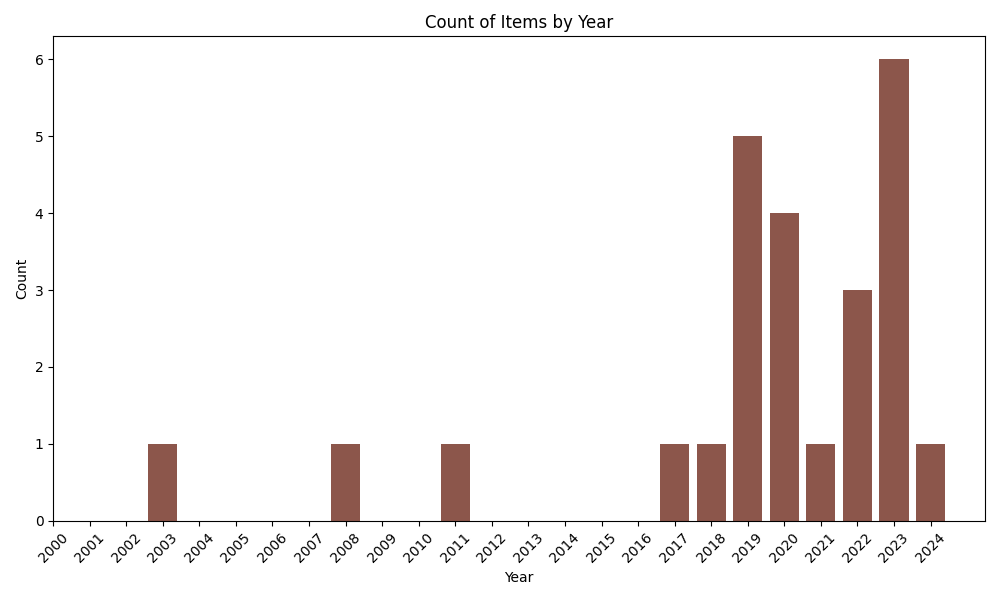
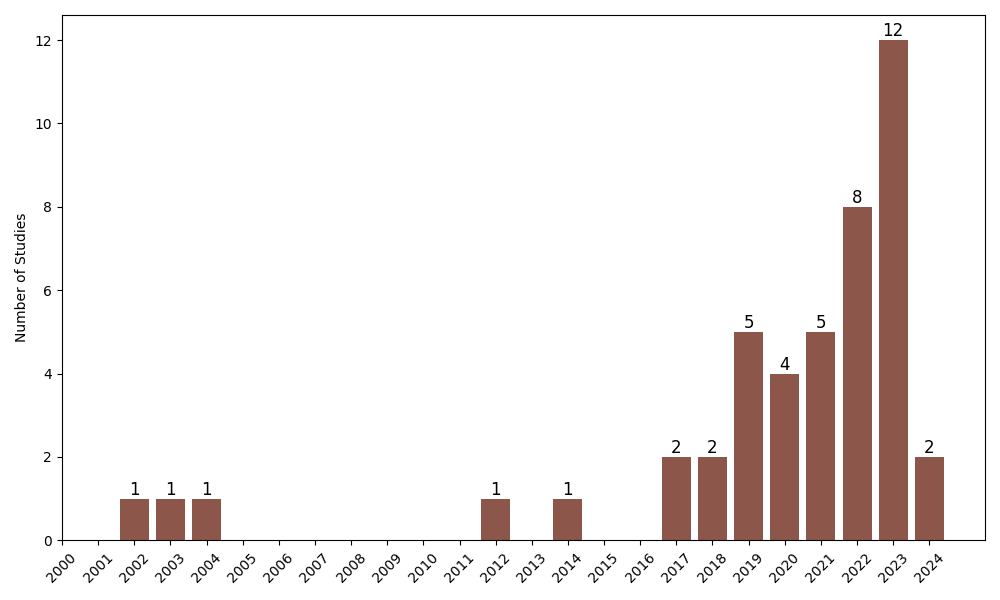
listing venues

diff --git a/figure/bar.py b/figure/bar.py
@@ -1,34 +1,57 @@
 import pandas as pd
 import matplotlib.pyplot as plt
+from matplotlib import colors as mcolors
+from matplotlib.ticker import MaxNLocator
 
-# Step 1: Read the Excel file
-file_path = '../primary study.xlsx'  # Update this to your file path
-df = pd.read_excel(file_path)
 
-# Step 2: Ensure the 'Year' column is treated as integer
-df['Year'] = pd.to_numeric(df['Year'], errors='coerce')  # Convert to numeric, coerce errors to NaN
+colors = dict(mcolors.BASE_COLORS, **mcolors.CSS4_COLORS)
 
-# Step 3: Drop rows with NaN values in 'Year' column
-df = df.dropna(subset=['Year'])
+def publication_year():
+    file_path = '../XR_Study.xlsx'
+    df = pd.read_excel(file_path, sheet_name="Data Extraction")
+    df['year'] = pd.to_numeric(df['year'], errors='coerce')  # Convert to numeric, coerce errors to NaN
 
-# Step 4: Count occurrences of each year
-year_counts = df['Year'].value_counts()
+    df = df.dropna(subset=['year'])
+    year_counts = df['year'].value_counts().sort_index()
+    sorted_year_counts = year_counts.sort_index()
 
-# Step 5: Sort by year
-sorted_year_counts = year_counts.sort_index()
+    plt.figure(figsize=(10, 6))
+    plt.bar(sorted_year_counts.index, sorted_year_counts.values, color='tab:brown')
 
-# Step 6: Create a bar chart
-plt.figure(figsize=(10, 6))
-plt.bar(sorted_year_counts.index, sorted_year_counts.values, color='tab:brown')
+    for year, count in sorted_year_counts.items():
+        plt.text(year, count, str(count), ha='center', va='bottom', fontsize=12)
 
-all_years = range(2000, 2025)
-plt.xticks(all_years)  # Set x-axis ticks
+    all_years = range(2000, 2025)
+    plt.xticks(all_years)
 
-plt.xlabel('Year')
-plt.ylabel('Count')
-plt.title('Count of Items by Year')
-plt.xticks(rotation=45)  # Rotate x-axis labels for better readability
-plt.tight_layout()  # Adjust layout to fit everything nicely
+    plt.ylabel('Number of Studies')
+    plt.xticks(rotation=45)
+    plt.tight_layout()
 
-# Step 7: Show the plot
-plt.show()
+    plt.show()
+
+def venue_type():
+    file_path = '../XR_Study.xlsx'
+    df = pd.read_excel(file_path, sheet_name="Data Extraction")
+    venue_types = ["Journal", "Conference", "Workshop", "Symposium"]
+    venue_counts = df["venue type"].value_counts()
+    filtered_counts = venue_counts[venue_types].reset_index()
+    filtered_counts.columns = ['Venue Type', 'Count']
+
+    plt.figure(figsize=(6, 4))
+    plt.bar(filtered_counts['Venue Type'], filtered_counts['Count'], width=0.5, color=colors["cadetblue"])
+
+    for i, count in enumerate(filtered_counts['Count']):
+        plt.text(i, count + 0.15, str(count), ha='center', fontsize=10)
+
+    plt.ylabel('Frequency')
+    plt.gca().yaxis.set_major_locator(MaxNLocator(integer=True))  # Ensure y-ticks are integers
+    plt.tight_layout()
+    plt.show()
+
+
+def venue_topic():
+    pass
+
+# publication_year()
+venue_type()

diff --git a/figure/listing.py b/figure/listing.py
@@ -1,0 +1,24 @@
+import pandas as pd
+
+def listing_venue():
+    pd.set_option('display.max_colwidth', None)
+    pd.set_option('display.max_rows', None)
+    pd.set_option('display.max_columns', None)
+    file_path = '../XR_Study.xlsx'  # Update this to your file path
+    df = pd.read_excel(file_path, sheet_name="Data Extraction")
+    grouped_venues = df.groupby(['venue', 'venue type', 'venue topic']).size().reset_index(name='Count')
+
+    # Sort the results by count in descending order
+    grouped_venues = grouped_venues.sort_values(by='Count', ascending=False)
+
+    no = 1
+    for index, row in grouped_venues.iterrows():
+        venue = row['venue']
+        venue_type = row['venue type']
+        venue_domain = row['venue topic']
+        count = row['Count']
+        # percentage = row['Count'] / 45
+        print(f"{no} & {venue} & {venue_type} & {venue_domain} & {count} \\\\")
+        no += 1
+
+listing_venue()
